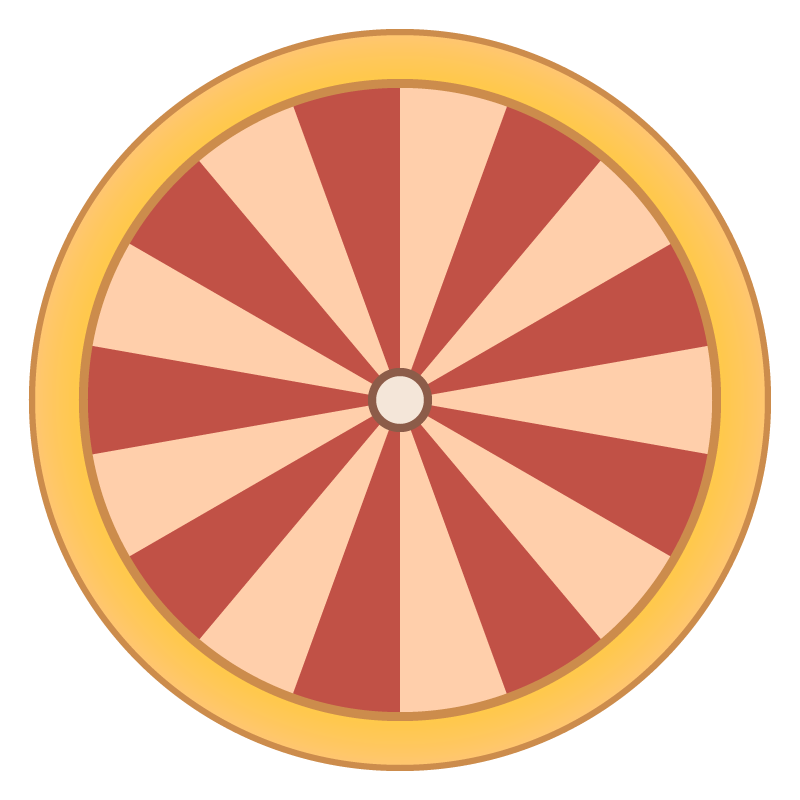
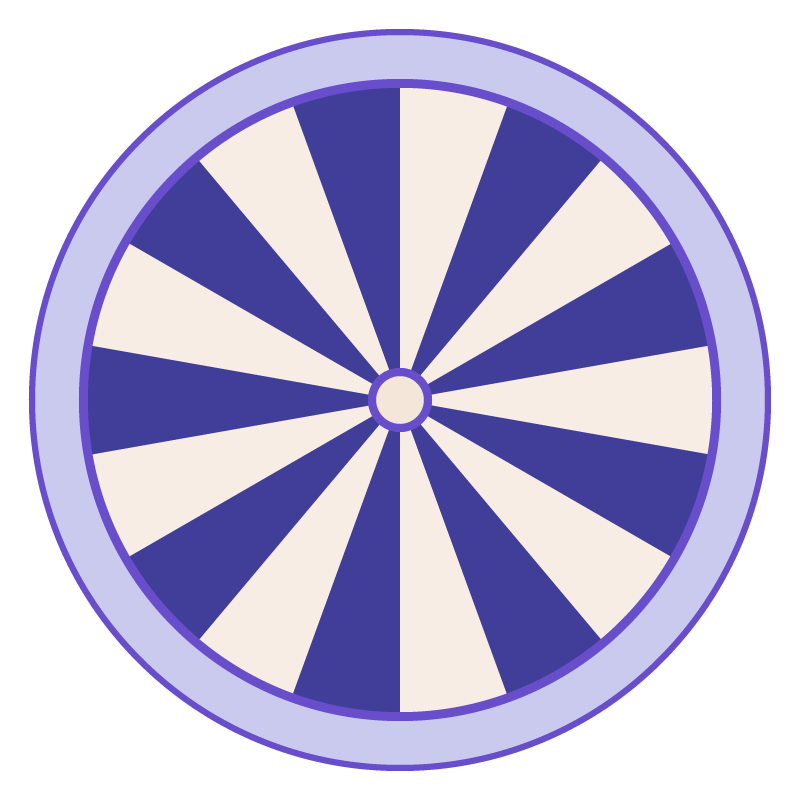
Update wheel, background, colors, popup

diff --git a/src/Home/components/FortuneWheel/FortuneWheel.jsx b/src/Home/components/FortuneWheel/FortuneWheel.jsx
@@ -1,6 +1,7 @@
 import React, { useRef, useEffect } from "react";
 
 import appboxoSDK from "@appboxo/js-sdk";
+import { SPIN_ELEMENTS } from "../../../constants";
 
 import "./FortuneWheel.scss";
 
@@ -10,7 +11,7 @@ export default function FortuneWheel({
   onSpinStart,
   isSpinStarted,
   setIsSpinStopped,
-  setHasWon,
+  setWinPrize,
 }) {
   const animationRef = useRef(null);
   const wheelRef = useRef(null);
@@ -53,9 +54,10 @@ export default function FortuneWheel({
     onSpinStart(false);
     setIsSpinStopped(true);
 
-    const win = Math.random() < 0.5;
+    const winPrize =
+      SPIN_ELEMENTS[Math.floor(Math.random() * SPIN_ELEMENTS.length)];
 
-    setHasWon(win);
+    setWinPrize(winPrize);
 
     if (animationRef.current) {
       cancelAnimationFrame(animationRef.current);
@@ -87,7 +89,7 @@ export default function FortuneWheel({
       <div className="wheel" ref={wheelRef}></div>
 
       <div className="text-container">
-        <div class="instruction">
+        <div className="instruction">
           <b>SCAN TO SPIN</b> or press the button
         </div>
 

diff --git a/src/Home/components/FortuneWheel/FortuneWheel.scss b/src/Home/components/FortuneWheel/FortuneWheel.scss
@@ -4,7 +4,9 @@
   align-items: center;
   justify-content: center;
   height: 100vh;
-  background: linear-gradient(to bottom, #48779c, #0c554e);
+  background: url("../../../assets/bg.png");
+  background-size: 290% 100%;
+  background-position: 8% 0;
 }
 
 .wheel {
@@ -20,23 +22,25 @@
   flex-direction: column;
   align-items: center;
   justify-content: center;
-  margin-top: 120px;
+  margin-top: 140px;
 }
 
 .instruction {
-  color: #f9f9f9;
+  color: var(--text-color);
   font-size: 16px;
+  text-shadow: 1px 2px 3px rgba(0, 0, 0, 0.3);
 }
 
 .spin-button {
   margin-top: 30px;
-  width: 130px;
-  height: 42px;
+  width: 200px;
+  height: 44px;
   outline: none;
   border: none;
-  border-radius: 8px;
-  background: #fec855;
-  color: #0c554e;
+  border-radius: 12px;
+  background: var(--primary-color);
+  box-shadow: 2px 4px 12px rgba(0, 0, 0, 0.1);
+  color: var(--white);
   letter-spacing: 0.8px;
   font-weight: bold;
   font-size: 16px;

diff --git a/src/index.scss b/src/index.scss
@@ -1,11 +1,12 @@
-@import '../node_modules/antd/dist/antd.css';
+@import "../node_modules/antd/dist/antd.css";
 
 :root {
-  --primary-color: #000000;
-  --white: #FFFFFF;
-  --secondary-color: #2CBBD7;
+  --primary-color: #413e9a;
+  --text-color: #121212;
+  --white: #ffffff;
+  --secondary-color: #2cbbd7;
   --tertiary-color: #faad14;
-  --text-secondary: #797F8B;
+  --text-secondary: #797f8b;
 }
 
 * {
@@ -17,7 +18,7 @@ body {
   background-color: #fff;
   height: 100vh;
   overflow: auto;
-  font-family: 'Inter', sans-serif;
+  font-family: "Inter", sans-serif;
   margin: 0;
 }
 
@@ -41,7 +42,7 @@ p {
 .text-body {
   font-size: 16px;
   font-weight: 400;
-  line-height: 24px; 
+  line-height: 24px;
   color: var(--primary-color);
 }
 
@@ -71,7 +72,7 @@ p {
   &:not(.ant-btn-danger) {
     border-color: var(--secondary-color);
     color: var(--secondary-color);
-  
+
     &:hover,
     &:focus {
       border-color: var(--secondary-color);

diff --git a/src/Home/Home.js b/src/Home/Home.js
@@ -13,7 +13,7 @@ import Popup from "./components/Popup/Popup";
 const Home = (props) => {
   const [isSpinStarted, setIsSpinStarted] = useState(false);
   const [isSpinStopped, setIsSpinStopped] = useState(false);
-  const [hasWon, setHasWon] = useState(false);
+  const [winPrize, setWinPrize] = useState(null);
   const [showPopup, setShowPopup] = useState(false);
 
   useEffect(() => {
@@ -39,10 +39,10 @@ const Home = (props) => {
       <FortuneWheel
         isSpinStarted={isSpinStarted}
         onSpinStart={(started) => setIsSpinStarted(started)}
-        setHasWon={setHasWon}
+        setWinPrize={setWinPrize}
         setIsSpinStopped={setIsSpinStopped}
       />
-      <Popup show={showPopup} setShow={setShowPopup} hasWon={hasWon} />
+      <Popup show={showPopup} setShow={setShowPopup} winPrize={winPrize} />
     </section>
   );
 };

diff --git a/src/Home/components/Popup/Popup.scss b/src/Home/components/Popup/Popup.scss
@@ -1,15 +1,27 @@
 .wrapper {
+  min-width: clamp(260px, 50vw, 220px);
+  background: var(--white);
+  box-shadow: 2px 4px 12px rgba(0, 0, 0, 0.1);
+  border-radius: 16px;
+  padding: 16px 24px;
   position: fixed;
   z-index: 1;
   top: 50%;
   left: 50%;
   transform: translate(-50%, -50%);
-  display: grid;
-  place-content: center;
-  font-size: 56px;
-  font-weight: bold;
+  display: flex;
+  flex-direction: column;
+  flex-wrap: nowrap;
+  font-size: 16px;
+}
+
+.win-text {
   text-align: center;
+}
+
+.prize {
+  font-weight: bold;
   text-transform: uppercase;
-  text-shadow: 2px 3px 8px rgba(0, 0, 0, 0.2);
-  color: #ffffff;
+  text-align: center;
+  color: var(--primary-color);
 }

diff --git a/src/Home/components/Popup/Popup.jsx b/src/Home/components/Popup/Popup.jsx
@@ -2,7 +2,7 @@ import React, { useEffect } from "react";
 
 import "./Popup.scss";
 
-export default function Popup({ show, setShow, hasWon }) {
+export default function Popup({ show, setShow, winPrize }) {
   useEffect(() => {
     setTimeout(() => {
       setShow(false);
@@ -12,7 +12,10 @@ export default function Popup({ show, setShow, hasWon }) {
   return (
     show && (
       <>
-        <div className="wrapper">{hasWon ? "You won!" : "You lose!"}</div>
+        <div className="wrapper">
+          <div className="win-text">You win</div>
+          <div className="prize">{winPrize?.title ?? "Testing win object"}</div>
+        </div>
       </>
     )
   );
